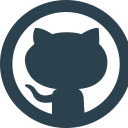
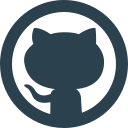
Icones de redes socias novos

diff --git a/resources/views/contato.blade.php b/resources/views/contato.blade.php
@@ -1,6 +1,7 @@
 @extends('index')
 
 @section('body')
+<!-- Contato Section -->
 <div id="contact" class="text-center">
   	<div class="overlay">
 	    <div class="container">
@@ -16,71 +17,65 @@
 		            	<div class="col-md-6">
 		            		<div class="form-group">
 		                		<input type="text" name="nome" id="name" class="form-control" placeholder="Seu Nome..." required>
-		                		<p class="help-block text-danger" id="errorName">
-		                			Nome vaizo!
-		                		</p>
+		                		<p class="help-block text-danger" id="errorName">Nome vaizo!</p>
 		            		</div>
 		            	</div>
 
 		            	<div class="col-md-6">
 		              		<div class="form-group">
 		                		<input type="email" name="email" id="email" class="form-control" placeholder="Seu E-mail..." required="required">
-		                		<p class="help-block text-danger" id="errorEmail">
-		                			E-mail vaizo!
-		                		</p>
+		                		<p class="help-block text-danger" id="errorEmail">E-mail vaizo!</p>
 		              		</div>
 		            	</div>
 
 		            	<div class="col-md-12">
 		              		<div class="form-group">
 		                		<input type="text" name="assunto" id="assunto" class="form-control" placeholder="Assunto..." required="required">
-		                		<p class="help-block text-danger" id="errorAssnto">
-		                			Assunto vaizo!
-		                		</p>
+		                		<p class="help-block text-danger" id="errorAssnto">Assunto vaizo!</p>
 		              		</div>
 		            	</div>
 	          		</div>
 
 		          	<div class="form-group">
 		            	<textarea name="mensagem" id="message" class="form-control" rows="4" placeholder="Mensagem..." required></textarea>
-		            	<p class="help-block text-danger" id="errorMsg">
-		            		Mensagem vazio!
-		            	</p>
+		            	<p class="help-block text-danger" id="errorMsg">Mensagem vazio!</p>
 		          	</div>
 
-		          	<div id="success"></div>
+		          	<div id="success">
+		          		<p class="help-block text-success">E-mail enviado com sucesso!</p>
+		          	</div>
 
-		          	<button type="submit" id="aa" class="btn btn-default">ENVIAR</button>
+		          	<button type="submit" id="btn-enviar" class="btn btn-default">ENVIAR</button>
 	        	</form>
 
 		        <div class="social">
 		          	<ul>
 		          		<li>
-			            	<a href="https://goo.gl/FNd1sV" target="_blank"><img src="img/redes_sociais/linkedin.png" width="35" height="35"></a>
+			            	<a href="https://goo.gl/FNd1sV" target="_blank"><img src="img/redes_sociais/linkedin.png" alt="LinkedIn" width="35" height="35"></a>
 			            </li>
 			            
 			            <li>
-			            	<a href="https://goo.gl/729QP" target="_blank"><img src="img/redes_sociais/github.png" width="35" height="35"></a>
+			            	<a href="https://goo.gl/729QP" target="_blank"><img src="img/redes_sociais/github-light.png" alt="GitHub" width="35" height="35"></a>
 			            </li>
 
 			            <li>
-			            	<a href="https://goo.gl/Rx0G1" target="_blank"><img src="img/redes_sociais/twitter.png" width="35" height="35"></a>
+			            	<a href="https://goo.gl/Rx0G1" target="_blank"><img src="img/redes_sociais/twitter.png" alt="Twitter" width="35" height="35"></a>
 			            </li>
 
 			            <li>
-			            	<a href="https://goo.gl/766xci" target="_blank"><img src="img/redes_sociais/facebook.png" width="35" height="35"></a>
+			            	<a href="https://goo.gl/766xci" target="_blank"><img src="img/redes_sociais/facebook.png" alt="Facebook" width="35" height="35"></a>
 			            </li>
 
 			            <li>
-			            	<a href="https://goo.gl/aP2Ku3" target="_blank"><img src="img/redes_sociais/instagram.png" width="35" height="35"></a>
+			            	<a href="https://goo.gl/aP2Ku3" target="_blank"><img src="img/redes_sociais/instagram.png" alt="Instagram" width="35" height="35"></a>
 			            </li>
 
 			            <li>
-			            	<a href="https://goo.gl/lwF6Sz" target="_blank"><img src="img/redes_sociais/slideshare.png" width="35" height="35"></a>
+			            	<a href="https://goo.gl/lwF6Sz" target="_blank"><img src="img/redes_sociais/slideshare.png" alt="SlideShare" width="35" height="35"></a>
 			            </li>
 
 			            <li>
-			            	<a href="https://goo.gl/zAsIGY" target="_blank"><img src="img/redes_sociais/skoob.png" width="35" height="35"></a>
+			            	<a href="https://goo.gl/zAsIGY" target="_blank"><img src="img/redes_sociais/skoob.png" alt="Skoob" width="35" height="35"></a>
 			            </li>
 		          	</ul>
 		        </div>
